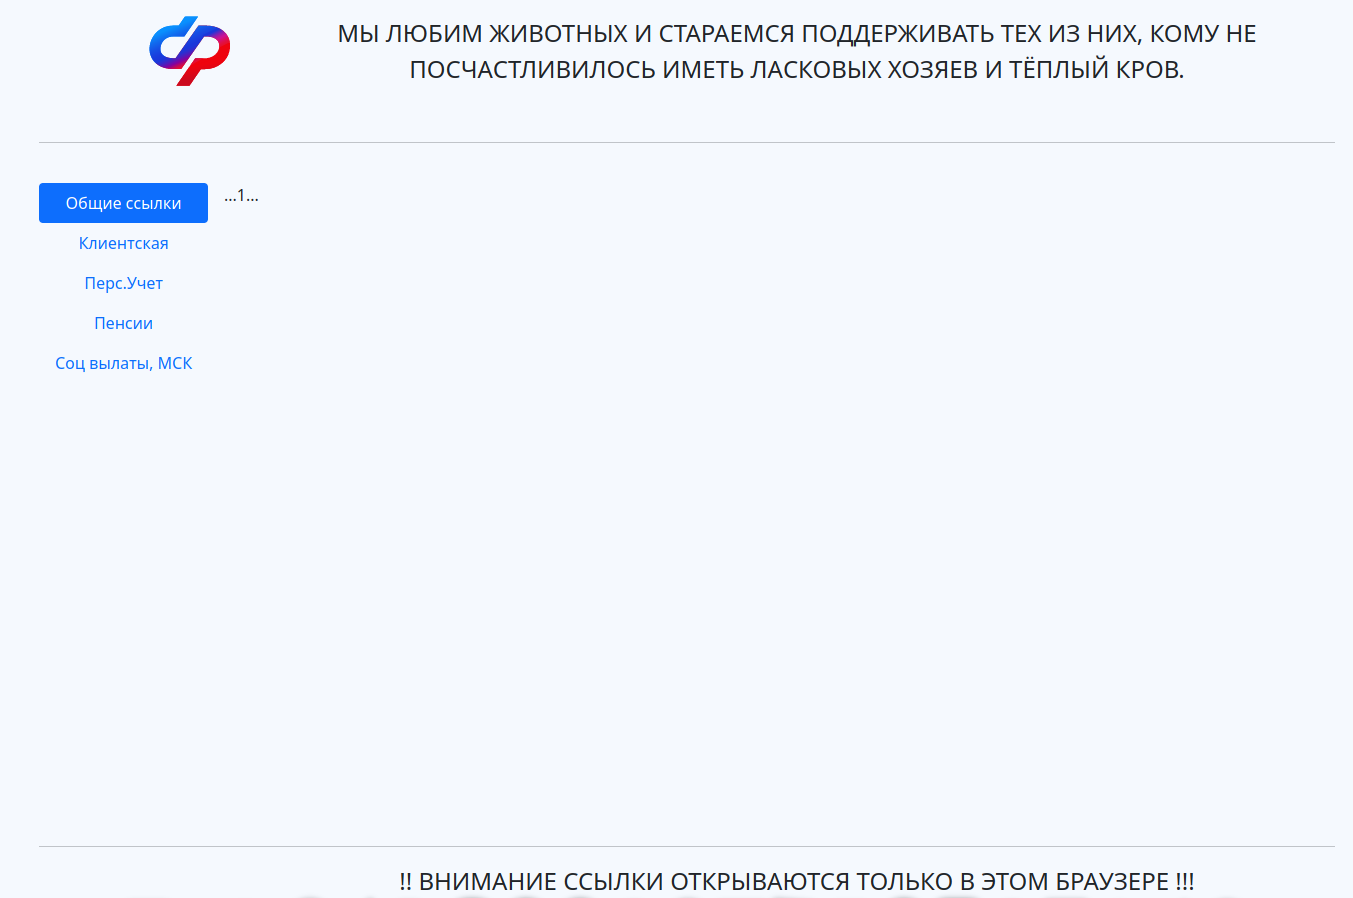
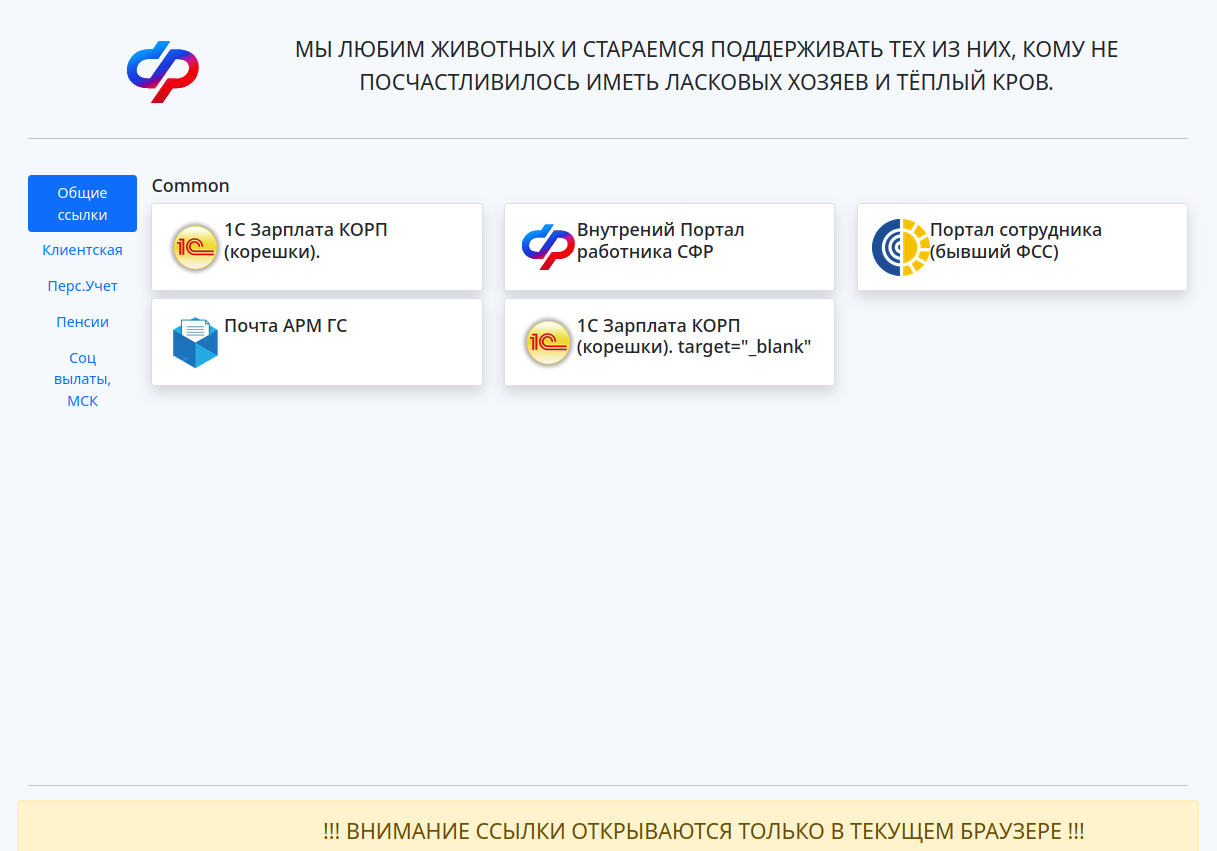
verstka2

diff --git a/index.html b/index.html
@@ -10,7 +10,7 @@
 <body class="wholepage">
 <div class="container-sm">
     <br>
-    <div class="row shapka">
+    <div class="row shapka align-items-center">
         <div class="col-2 text-end">
             <img src="./img/logo.svg" alt="logo sgr">
         </div>
@@ -30,8 +30,111 @@
           <button class="nav-link" id="v-pills-socmsk-tab" data-bs-toggle="pill" data-bs-target="#v-pills-socmsk" type="button" role="tab" aria-controls="v-pills-socmsk" aria-selected="false">Соц вылаты, МСК</button>
         </div>
         <div class="tab-content" id="v-pills-tabContent">
-          <div class="tab-pane fade show active" id="v-pills-home" role="tabpanel" aria-labelledby="v-pills-home-tab">...1...</div>
-          <div class="tab-pane fade" id="v-pills-profile" role="tabpanel" aria-labelledby="v-pills-profile-tab">...2...</div>
+          <div class="tab-pane fade show active" id="v-pills-home" role="tabpanel" aria-labelledby="v-pills-home-tab">
+            <h5>Common</h5>
+            <div class="row blockurl">
+                    
+                <div class="col-sm-4 mb-2 pb-2 mb-sm-0 ">
+                    <a href="http://www.google.com" target="_blank">
+                  <div class="card shadow">
+                    <!-- <img src="./img/1c.png" class="card-img-top" style="width: 5rem; float: inline-start;" alt="imgcard">
+                    <p class="card-text">1С Зарплата КОРП (корешки).</p> -->
+                    <div class="card-body">
+                      <img src="./img/1c.png" class="card-img-top" style="width: 4rem; float: inline-start;" alt="imgcard">
+                      <h5 class="card-title">1С Зарплата КОРП (корешки).</h5>
+                      <p class="card-text"></p>
+                      <!-- <a href="#" class="btn btn-primary">Перейти куда-нибудь</a> -->
+                    </div>
+                  </div></a>
+                </div>
+                
+                <div class="col-sm-4 mb-2 pb-2 mb-sm-0 ">
+                    <a href="http://www.google.com" target="_blank">
+                  <div class="card shadow">
+                    <!-- <img src="./img/1c.png" class="card-img-top" style="width: 5rem; float: inline-start;" alt="imgcard">
+                    <p class="card-text">1С Зарплата КОРП (корешки).</p> -->
+                    <div class="card-body">
+                      <img src="./img/logo.svg" class="card-img-top" style="width: 4rem; height: 4rem; float: inline-start;" alt="imgcard">
+                      <h5 class="card-title">Внутрений Портал работника СФР</h5>
+                      <p class="card-text"></p>
+                      <!-- <a href="#" class="btn btn-primary">Перейти куда-нибудь</a> -->
+                    </div>
+                  </div></a>
+                </div>
+                <div class="col-sm-4 mb-2 pb-2 mb-sm-0 ">
+                    <a href="http://www.google.com" target="_blank">
+                  <div class="card shadow">
+                    <!-- <img src="./img/1c.png" class="card-img-top" style="width: 5rem; float: inline-start;" alt="imgcard">
+                    <p class="card-text">1С Зарплата КОРП (корешки).</p> -->
+                    <div class="card-body">
+                      <img src="./img/fss-minilogo.png" class="card-img-top" style="width: 4rem; float: inline-start;" alt="imgcard">
+                      <h5 class="card-title">Портал сотрудника (бывший ФСС)</h5>
+                      <p class="card-text"></p>
+                      <!-- <a href="#" class="btn btn-primary">Перейти куда-нибудь</a> -->
+                    </div>
+                  </div></a>
+                </div>
+                <div class="col-sm-4 mb-2 pb-2 mb-sm-0 ">
+                    <a href="http://www.google.com" target="_blank">
+                  <div class="card shadow">
+                    <!-- <img src="./img/1c.png" class="card-img-top" style="width: 5rem; float: inline-start;" alt="imgcard">
+                    <p class="card-text">1С Зарплата КОРП (корешки).</p> -->
+                    <div class="card-body">
+                      <img src="./img/mailbox.png" class="card-img-top" style="width: 4rem; float: inline-start;" alt="imgcard">
+                      <h5 class="card-title">Почта АРМ ГС</h5>
+                      <p class="card-text"></p>
+                      <!-- <a href="#" class="btn btn-primary">Перейти куда-нибудь</a> -->
+                    </div>
+                  </div></a>
+                </div>
+                <div class="col-sm-4 mb-2 pb-2 mb-sm-0 ">
+                    <a href="http://www.google.com" target="_blank">
+                  <div class="card shadow">
+                    <!-- <img src="./img/1c.png" class="card-img-top" style="width: 5rem; float: inline-start;" alt="imgcard">
+                    <p class="card-text">1С Зарплата КОРП (корешки).</p> -->
+                    <div class="card-body">
+                      <img src="./img/1c.png" class="card-img-top" style="width: 4rem; float: inline-start;" alt="imgcard">
+                      <h5 class="card-title">1С Зарплата КОРП (корешки). target="_blank"</h5>
+                      <p class="card-text"></p>
+                      <!-- <a href="#" class="btn btn-primary">Перейти куда-нибудь</a> -->
+                    </div>
+                  </div></a>
+                </div>
+              
+              </div>
+              
+          </div>
+          <div class="tab-pane fade" id="v-pills-profile" role="tabpanel" aria-labelledby="v-pills-profile-tab">
+            Customer Service
+            
+                <div class="row">
+                    
+                    <div class="col-sm-6 mb-3 mb-sm-0">
+                        <a href="http://www.google.com">
+                      <div class="card">
+                        <div class="card-body">
+                          <h5 class="card-title">Особое обращение с заголовком</h5>
+                          <p class="card-text">С вспомогательным текстом ниже в качестве естественного перехода к дополнительному контенту.</p>
+                          <a href="#" class="btn btn-primary">Перейти куда-нибудь</a>
+                        </div>
+                      </div></a>
+                    </div>
+                    
+                    
+                    <div class="col-sm-6">
+                        <a href="http://www.ya.com">
+                      <div class="card">
+                        <div class="card-body">
+                          <h5 class="card-title">Особое обращение с заголовком</h5>
+                          <p class="card-text">С вспомогательным текстом ниже в качестве естественного перехода к дополнительному контенту.</p>
+                          <a href="#" class="btn btn-primary">Перейти куда-нибудь</a>
+                        </div>
+                      </div>
+                    </div></a>
+                    
+                  </div>
+                  
+          </div>
           <div class="tab-pane fade" id="v-pills-messages" role="tabpanel" aria-labelledby="v-pills-messages-tab">...3...</div>
           <div class="tab-pane fade" id="v-pills-settings" role="tabpanel" aria-labelledby="v-pills-settings-tab">...4...</div>
           <div class="tab-pane fade" id="v-pills-socmsk" role="tabpanel" aria-labelledby="v-pills-socmsk-tab">...5...</div>
@@ -45,16 +148,14 @@
 <footer>
     <div class="container-sm">
         <hr>
-        <div class="row">
+        <div class="row alert alert-warning">
             <div class="col-2"></div>
             <div class="col text-uppercase text-center fs-4">
-                <p>!! внимание ссылки открываются только в этом браузере !!!</p>
+                <p>!!! внимание ссылки открываются только в текущем браузере !!!</p>
             </div>
         </div>
     </div>
 </footer>  
-</body>
-
-
 <script src="./js/bootstrap.bundle.min.js"></script>
+</body>
 </html>

diff --git a/css/style.css b/css/style.css
@@ -12,3 +12,13 @@
 	height: 70vh;
 	
 }
+
+.blockurl a {
+    text-decoration: none;
+    color: inherit;
+}
+
+.blockurl .card:hover {
+    color: rgba(0, 0, 0, 0.55);
+    background-color: #0d6dfd0c;
+}
